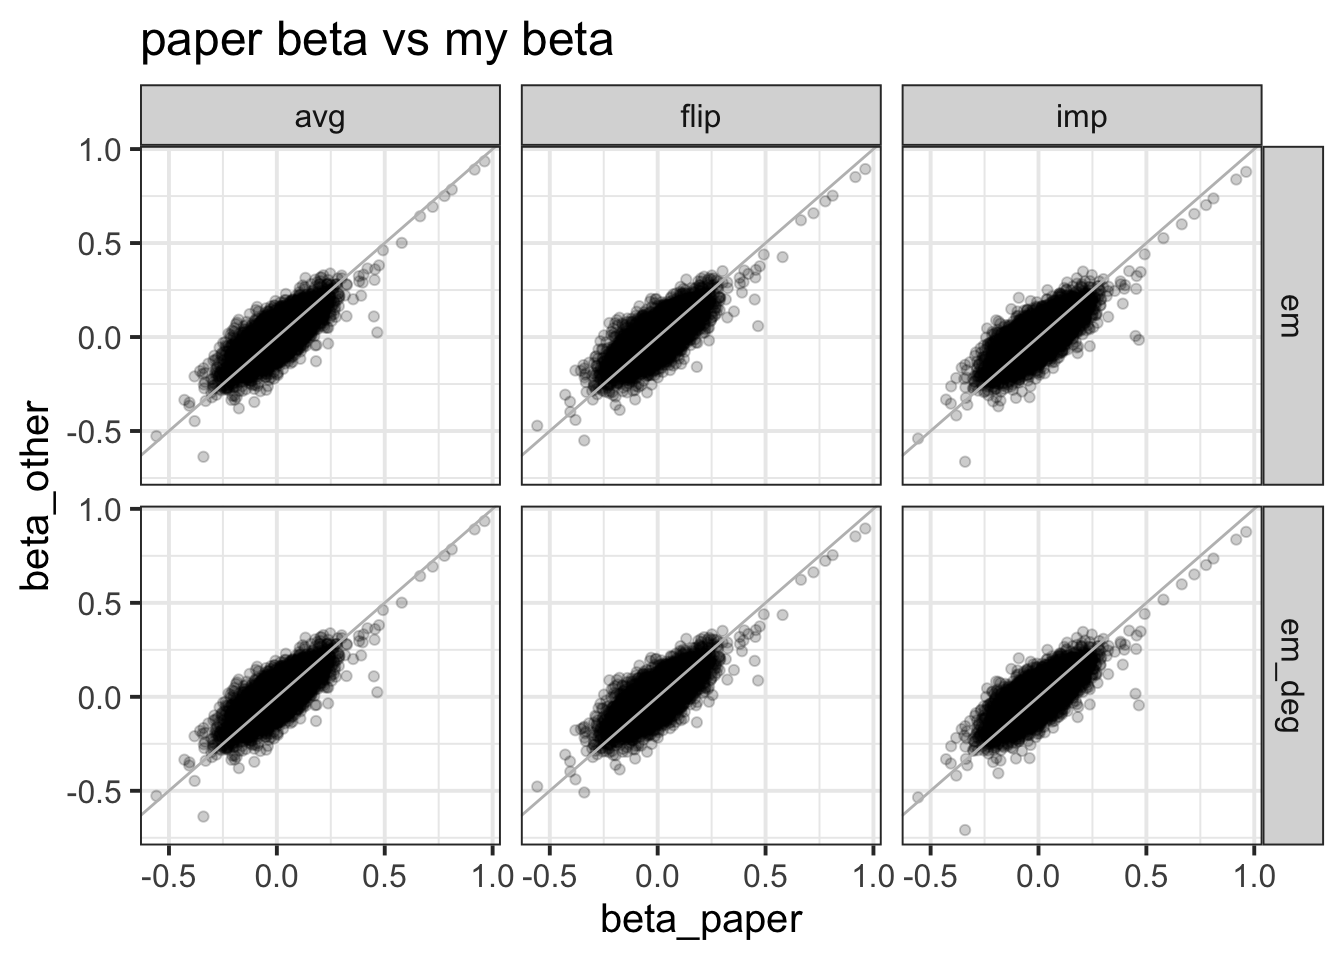
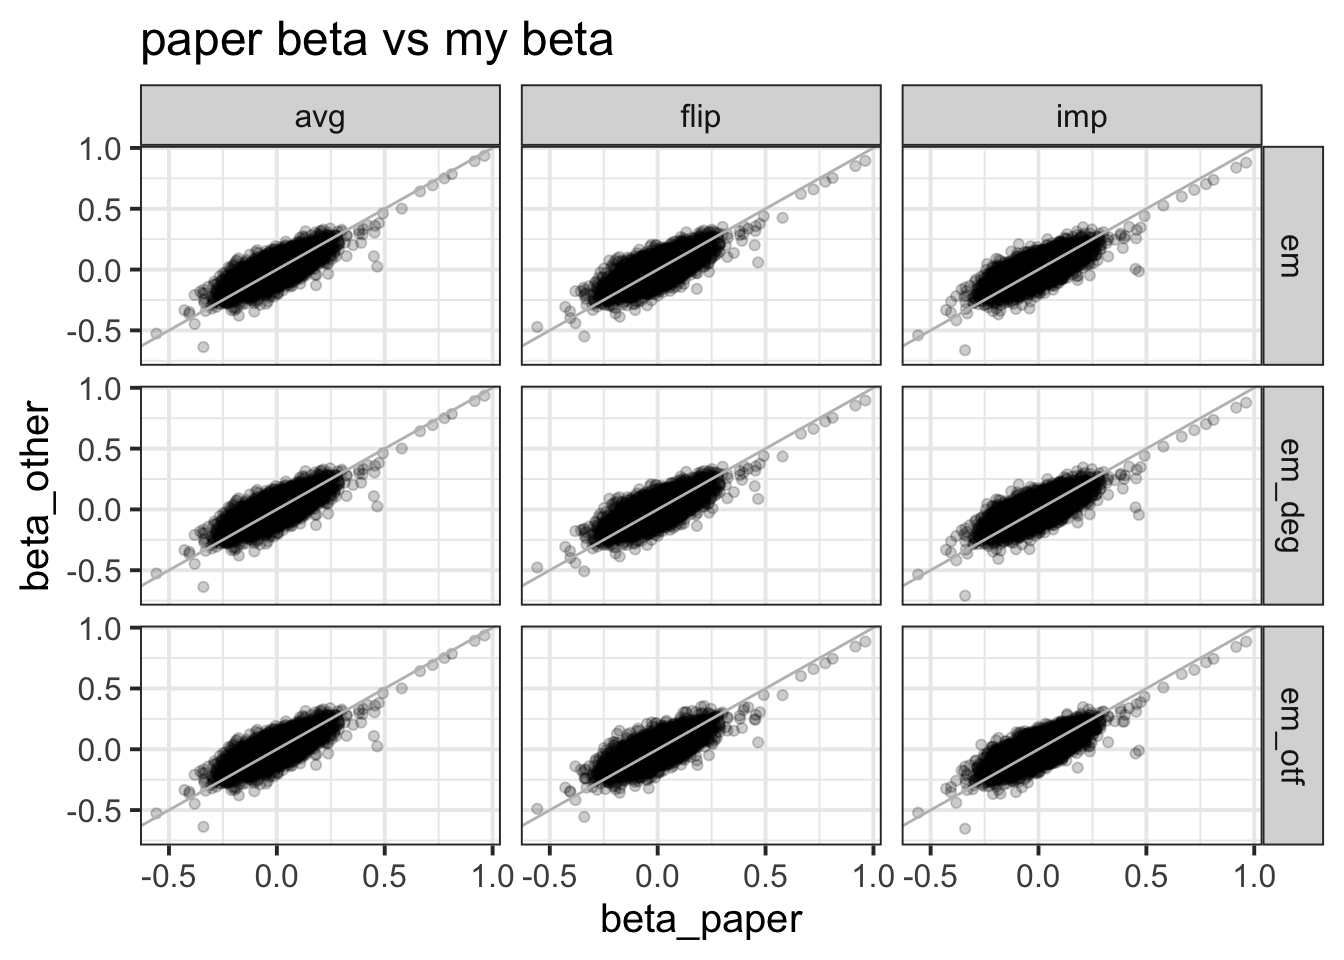
documenting progress and note

Changed region(s): [[0.0312, 0.1562, 1.0, 0.875]]

diff --git a/docs/second_idea_outline_logistic.html b/docs/second_idea_outline_logistic.html
@@ -11,7 +11,7 @@
 
 
 
-<title>Home</title>
+<title>Second idea: logistic regression</title>
 
 <script src="site_libs/jquery-1.11.3/jquery.min.js"></script>
 <meta name="viewport" content="width=device-width, initial-scale=1" />
@@ -381,29 +381,103 @@ div.tocify {
 
 
 
-<h1 class="title toc-ignore">Home</h1>
+<h1 class="title toc-ignore">Second idea: logistic regression</h1>
 <h4 class="date">Last update: May 10, 2020</h4>
 
 </div>
 
 
-<div id="notes" class="section level1">
-<h1><span class="header-section-number">1</span> Notes</h1>
-<ul>
-<li><a href="init_idea_outline.html">Initial thoughts</a>. The full pipeline <a href="impute_and_gwas.html">imputation + GWAS</a>.</li>
-<li><a href="haplo_gwas_power.html">Power comparison on haplotype-based GWAS</a>.</li>
-<li><a href="logistic_solver_single.html">Logistic solver (single SNP case)</a>.</li>
-<li><a href="second_idea_outline.html">Second thought on how to do haplotype imputation (on-the-fly OTF)</a>. Along this line, <a href="second_idea_outline_logistic.html">the variation with logistic model replacing linear model</a></li>
-</ul>
+<p><span class="math display">\[
+\newcommand{\E}{\text{E}}
+\newcommand{\diag}{\text{diag}}
+\]</span></p>
+<pre class="r"><code>library(dplyr)
+library(ggplot2)</code></pre>
+<div id="about" class="section level1">
+<h1><span class="header-section-number">1</span> About</h1>
+<p>Along the <a href="second_idea_outline.html">second thought</a>, here I discuss logistic model in replace of the linear model. The inference computation is quite similar except for some minor changes. Here I sketch the procedure as note for implementation. Nothing more than book-keeping.</p>
 </div>
-<div id="real-data-analysis" class="section level1">
-<h1><span class="header-section-number">2</span> Real data analysis</h1>
+<div id="em-sketch" class="section level1">
+<h1><span class="header-section-number">2</span> EM sketch</h1>
+<p>For the sake of completeness, I sketch the whole EM procedure here. But it resembles the previous note by a lot.</p>
 <ul>
-<li><a href="parent_illness_init.html">Initial look at parent illness in UK Biobank</a>.</li>
-<li><a href="parent_illness_2nd.html">Second try at querying illness in UK Biobank</a>: Include instance 0, 1, and 2 (instance 3 is not on Bionimbus).</li>
-<li><a href="gwas_neale_lab_ukb.html">What GWAS to use?: Neale’s lab UK Biobank GWAS</a></li>
-<li><a href="sanity_check.html">Sanity check runs</a></li>
+<li>Complete likelihood</li>
 </ul>
+<p><span class="math display">\[\begin{aligned}
+  \Pr(y^f, y^m, Z | H^1, H^2, \beta) &amp;= \prod_{i = 1}^n \Pr(y_i^f, y_i^m, Z_i | H_i^1, H_i^2, \beta) \\
+  &amp;= \prod_{i = 1}^n \Pr(y_i^f, y_i^m | Z_i, H_i^1, H_i^2, \beta) \Pr(Z_i) \\
+  \log \Pr(y^f, y^m, Z | H^1, H^2, \beta) &amp;= \sum_i \log \Pr(y^f, y^m, Z_i | H_i^1, H_i^2, \beta) + \log \Pr(Z_i) \\
+  &amp;= \sum_i \sum_{j \in \{f, m\}} \log \Pr(y^j | Z_i, H_i^1, H_i^2, \beta^j) + \log \Pr(Z_i)
+\end{aligned}\]</span></p>
+<p>So, we can focus on the per-individual-parent log likelihood. And specifically, for logistic model, we can spread out the log likelihood as follow (<strong>taking “father” for example</strong> and dropping individual index <span class="math inline">\(i\)</span>).</p>
+<p><span class="math display">\[\begin{aligned}
+  \log \Pr(y^f | Z, H^1, H^2, \beta^f) &amp;= Z ~[~ y^f \log \mu^{1,f} + (1 - y^f) \log (1 - \mu^{1, f}) ~]~ \\
+  &amp;+ (1 - Z) ~[~ y^f \log \mu^{2, f} + (1 - y^f) \log (1 - \mu^{2, f}) ~]~
+\end{aligned}\]</span> , where <span class="math inline">\(\mu^{h, j}\)</span> presents the <span class="math inline">\(\Pr(y^j = 1 | \beta^j, H^h)\)</span>. For instance, for <span class="math inline">\(\mu^{1, f}\)</span>, it indicates the probability of <span class="math inline">\(y^f\)</span> being case if haplotype 1 is from father.</p>
+<ul>
+<li><span class="math inline">\(Q(\theta, \theta^{t}))\)</span> function</li>
+</ul>
+<p><span class="math display">\[\begin{aligned}
+  \E_{Z | \theta^{(t)}, y, H^1, H^2} [~ \log \Pr(y^f | Z, H^1, H^2, \beta^f) ~] &amp;= \gamma ~[~ y^f \log \mu^{1,f} + (1 - y^f) \log (1 - \mu^{1, f}) ~]~ \\
+  &amp;+ (1 - \gamma) ~[~ y^f \log \mu^{2, f} + (1 - y^f) \log (1 - \mu^{2, f}) ~]~
+\end{aligned}\]</span> , where <span class="math inline">\(\gamma = \Pr(Z = 1 | \beta^{f, (t)}, y^f, H^1, H^2)\)</span>.</p>
+<ul>
+<li>E step</li>
+</ul>
+<p><span class="math display">\[\begin{aligned}
+  f(\mu, y) &amp;= \begin{cases}
+    \mu &amp; y = 1 \\
+    1 - \mu &amp; y = 0
+  \end{cases} \\
+  l_{i, 1} &amp;= f(\mu_i^{1, f}, y_i^f) f(\mu_i^{2, m}, y_i^m) \\
+  l_{i, 0} &amp;= f(\mu_i^{2, f}, y_i^f) f(\mu_i^{1, m}, y_i^m) \\
+  \gamma_i &amp;= \frac{l_{i, 1} \Pr(Z_i = 1)}{l_{i, 1} \Pr(Z_i = 1) + l_{i, 0} \Pr(Z_i = 0)} 
+\end{aligned}\]</span></p>
+<ul>
+<li>M step</li>
+</ul>
+<p>First, let’s vectorize some quantities.</p>
+<p><span class="math display">\[\begin{aligned}
+  \mu^j &amp;:= \begin{bmatrix}
+    \mu^{1, j} \\
+    \mu^{2, j}
+  \end{bmatrix} \\
+  Y^j &amp;:= \begin{bmatrix}
+    y^{j} \\
+    y^{j}
+  \end{bmatrix} \\
+  X &amp;:= \begin{bmatrix}
+    H^1 \\
+    H^2
+  \end{bmatrix} \\
+  \Gamma &amp;:= \diag([\gamma, 1 - \gamma]) \\
+  &amp;= \begin{bmatrix}
+    \gamma &amp; 0 \\
+    0 &amp; 1 - \gamma
+  \end{bmatrix}
+\end{aligned}\]</span></p>
+<p>Objective and derivatives (consider one parent and take father as example).</p>
+<p><span class="math display">\[\begin{aligned}
+  \E[\log L^f] &amp;= (\mu^f)&#39; \Gamma Y^f + (1 - \mu^f)&#39; \Gamma (1 - Y^f) \\
+  \nabla_{\beta^f} \E[\log L^f] &amp;= X&#39; \Gamma (Y^f - \mu^f) \\
+  \nabla^2_{\beta^f} \E[\log L^f] &amp;= X&#39; \Gamma S^f X \\
+  S^f &amp;:= \diag(\mu^f (1 - \mu^f))
+\end{aligned}\]</span></p>
+<p>First, transform the variables by a bit.</p>
+<p><span class="math display">\[\begin{aligned}
+  \widetilde{Y}^f &amp;= \sqrt{\Gamma} Y^f \\
+  \widetilde{\mu}^f &amp;= \sqrt{\Gamma} \mu^f \\
+  \widetilde{X} &amp;= \sqrt{\Gamma} X
+\end{aligned}\]</span></p>
+<p>So, the first and second derivative can be re-written as the following.</p>
+<p><span class="math display">\[\begin{aligned}
+  \nabla_{\beta^f} \E [\log L^f] &amp;= \widetilde{X}&#39; (\widetilde{Y}^f - \widetilde{\mu}^f) \\
+  \nabla^2_{\beta^f} \E [\log L^f] &amp;= \widetilde{X}&#39; S^f \widetilde{X}
+\end{aligned}\]</span></p>
+<p>Then, we can solve by IRLS by iteration as follow.</p>
+<p><span class="math display">\[\begin{aligned}
+  \beta^f &amp;= (\widetilde{X}&#39; S^f \widetilde{X})^{-1} \widetilde{X}&#39;[~ S^f \widetilde{X} \beta^{f, (t)} + \widetilde{Y}^f - \widetilde{\mu}^f ~]
+\end{aligned}\]</span></p>
 </div>
 
 

diff --git a/docs/sanity_check.html b/docs/sanity_check.html
@@ -382,7 +382,7 @@ div.tocify {
 
 
 <h1 class="title toc-ignore">Sanity check on first pass effort</h1>
-<h4 class="date">Last update: May 04, 2020</h4>
+<h4 class="date">Last update: May 10, 2020</h4>
 
 </div>
 
@@ -393,6 +393,7 @@ library(dplyr)
 library(patchwork)
 library(data.table)
 library(reticulate)
+library(pander)
 options(datatable.fread.datatable = FALSE)
 np &lt;- import(&quot;numpy&quot;)
 set.seed(2020)
@@ -442,7 +443,7 @@ signed_beta = function(beta, allele_ids, a1, a2) {
 <pre class="r"><code>snp_map = fread(&#39;zcat &lt; ~/Desktop/tmp/haplotype-po/snp_map_for_neale_lab_gwas.with_sign.tsv.gz&#39;, header = TRUE, sep = &#39;\t&#39;)
 gwas_father = fread(&#39;~/Downloads/2_UKB_AD_paternal_summary_output_June2019.txt&#39;, sep = &#39; &#39;)
 
-methods = data.frame(method = c(&#39;em&#39;, &#39;em_deg&#39;), prefix = c(&#39;test_sanity_imputer_chr&#39;, &#39;test_sanity_imputer_deg_chr&#39;))
+methods = data.frame(method = c(&#39;em&#39;, &#39;em_deg&#39;, &#39;em_otf&#39;), prefix = c(&#39;test_sanity_imputer_chr&#39;, &#39;test_sanity_imputer_deg_chr&#39;, &#39;test_sanity_imputer_otf_chr&#39;))
 dl = list()
 dl[[1]] = list()
 dl[[2]] = list()
@@ -450,6 +451,9 @@ for(chr_num in c(16, 19)) {
   pos = snp_map %&gt;% filter(chrom == chr_num) %&gt;% pull(pos)
   for(m in 1 : nrow(methods)) {
     for(i in 1 : 2) {
+      if(!file.exists(paste0(&#39;/Users/yanyul/Desktop/tmp/haplotype-po/&#39;, methods$prefix[m], chr_num, &#39;.npy&#39;))) {
+        next
+      }
       df = read_from_npy(
         paste0(&#39;/Users/yanyul/Desktop/tmp/haplotype-po/&#39;, methods$prefix[m], chr_num, &#39;.npy&#39;),
         pos, 
@@ -527,6 +531,21 @@ df_ad %&gt;% group_by(method, impute) %&gt;% summarize(nsnp = n()) %&gt;% pander
 <td align="center">37511</td>
 </tr>
 <tr class="odd">
+<td align="center">em_otf</td>
+<td align="center">avg</td>
+<td align="center">37484</td>
+</tr>
+<tr class="even">
+<td align="center">em_otf</td>
+<td align="center">flip</td>
+<td align="center">37484</td>
+</tr>
+<tr class="odd">
+<td align="center">em_otf</td>
+<td align="center">imp</td>
+<td align="center">37484</td>
+</tr>
+<tr class="even">
 <td align="center">paper</td>
 <td align="center">avg</td>
 <td align="center">36869</td>
@@ -559,7 +578,7 @@ df_ad_qq %&gt;% ggplot() + geom_point(aes(x = -log(p_exp), y = -log(pval), color
 df_avg_plot = df_avg %&gt;% inner_join(df_ad_qq %&gt;% filter(impute != &#39;avg&#39;), by = c(&#39;position&#39;, &#39;chr&#39;, &#39;method&#39;), suffix = c(&#39;_avg&#39;, &#39;_other&#39;))
 
 p1 = df_avg_plot %&gt;% filter(chr == 16) %&gt;% ggplot() + geom_point(aes(x = -log(pval_avg), y = -log(pval_other), color = impute_other), alpha = 0.3) + facet_grid(method~impute_other, scales = &#39;free&#39;) + ggtitle(&#39;Avg log p vs my log p&#39;) + geom_abline(slope = 1, intercept = 0, color = &#39;gray&#39;)
-p2 = df_avg_plot %&gt;% filter(chr == 19) %&gt;% ggplot() + geom_point(aes(x = -log(pval_avg), y = -log(pval_other), color = impute_other), alpha = 0.3) + facet_grid(method~impute_other, scales = &#39;free&#39;) + ggtitle(&#39;Avg log p vs my log p&#39;) + geom_abline(slope = 1, intercept = 0, color = &#39;gray&#39;)
+p2 = df_avg_plot %&gt;% filter(chr == 19) %&gt;% ggplot() + geom_point(aes(x = -log(pval_avg), y = -log(pval_other), color = impute_other), alpha = 0.3) + facet_grid(method~impute_other, scales = &#39;free&#39;) + ggtitle(&#39;Avg log p vs my log p&#39;) + geom_abline(slope = 1, intercept = 0, color = &#39;gray&#39;) # + coord_cartesian(xlim = c(0,25), ylim = c(0,25))
 p1 / p2</code></pre>
 <p><img src="sanity_check_files/figure-html/ad_pval-1.png" width="576" /></p>
 </div>
